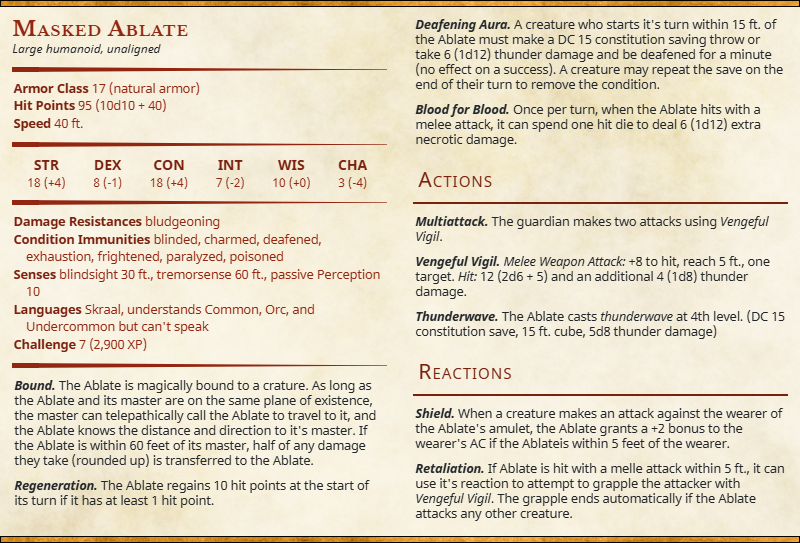
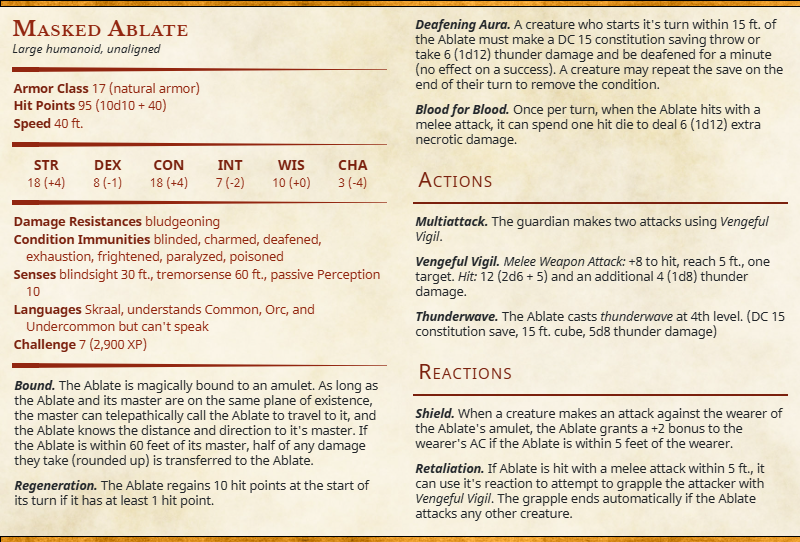
Quartz sync: Apr 30, 2025, 12:45 AM

diff --git a/content/Peoples/Aire Nomads.md b/content/Peoples/Aire Nomads.md
@@ -1,0 +1,28 @@
+###### *Parent: [[Original Diaspora]]*
+## Overview
+
+The Aire Nomads are a rugged tundra people with some isolated communities living in the southern forests and mountains. The Aire practice ancestor and spirit worship, have very limited contact with the Taiga elves, and have a deep but clouded cultural memory of domination under the [[Ancient Merlings]], causing them to fear the sea. The Aire distinguish between the light-wood and the dark-wood, and fear to venture where hags dwell.
+
+The Aire primarily herd [[Aire Aurochs]] and [[Saber-Deer]] for milk and meat. They live in igloo villages in the summer but migrate to their coastal caves during the winter. In the coastal caves they grow brine mushrooms and tubers to supplement their diet.
+
+## Central Myth
+
+The Wind spirit and Water spirit, twin sons of the chaos dragon, turned on their mother and fought her so that order could rule the world. They succeeded and buried her on the other side of the world, where she still causes earthquakes and volcanoes.
+
+However, the great spirit of the sea took a mortal wound, and where his blood spilled the Aire were born, and his body was destroyed. His will, however, endured, and it's by his power that the chaos-dragon is chained below ground. While the great spirit of the sea holds ward over his mother, his domain is unguarded and now populated by fell spirits. He is know known as the spirit undersea.
+
+The spirit of the skies was left to rule the world of the living, and he sent his children to inhabit the bodies of animals, so that his brother's blood may thrive. He is now known as the
+
+## Demigods
+
+Ansou: Spider-spirit who swindled fire from the very maw of the chaos-dragon to gift the Aire (among many other accomplishments)
+
+Posi: A small fat Lemming-spirit who guides souls from the world of the living to the kingdom under the ground. He only comes out at night and is usually joking and jovial. Ansou regularly bamboozles him.
+
+The star-maidens: 7 daughters of the sky spirit who hold the mirrors or truth so that their father never forgets what he must protect.
+
+## Heroic Figure 
+An Aire warrior-maiden once hunted the formidable silver [[Spider-elk|spider-elk]] who slayed and dismembered the chief and his prized Aurochs. Upon finding the beast she slew it with an arrow tipped with a potent fungal toxin from a cave she found on the coast. Afterwards she skinned the silver coat from the spider-elk and could thereafter fly far across the tunder using it's wind-magic.
+
+## History with Harken
+After a few more journeys and the establishment of weir's point, [[Harken Keelmender]] formed a deep friendship with the southern Aire who he encountered, even marrying one. This friendship was formed off a promise that Harken would use his smithing skills and [[Andradora|Andradoran]] magic to help the southern Aire defend against a fearsome hag. Harken knew his strength couldn't last forever and so, before he was too old, he led a expedition to find the hag. This expedition was successful and the hag was slain, but Harken lost his life in the process. Unbeknownst to all, the hag's daughter escaped to cause trouble in the future.

diff --git a/content/Characters/Ambrose Pence.md b/content/Characters/Ambrose Pence.md
@@ -44,14 +44,3 @@ As a token of good faith, Ambrose will direct the party to [[Zodiac Zop]] at the
 
 #### Statblock
 ![[ambrose pence.png]]
-```statblock
-creature: Ambrose Pence
-spells: #### Spellcasting. Ambrose is a 12th-level spellcaster. Its spellcasting ability is Wisdom (spell save DC 18, +10 to hit with spell attacks). It requires no material components to cast its spells. Ambrose has the following spells prepared
-- Cantrips (at will): _ray of frost, light, minor illusion_
-- 1st level (4 slots): _bless, detect evil and good, detect magic_
-- 2nd level (3 slots): _lesser restoration, zone of truth_
-- 3rd level (3 slots): _dispel magic, tongues_
-- 4th level (3 slots): _banishment, freedom of movement_
-- 5th level (2 slots): _flame strike, greater restoration_
-- 6th level (1 slot): _heroes' feast_
-```

diff --git a/content/Characters/Sigurd Steamsinger.md b/content/Characters/Sigurd Steamsinger.md
@@ -32,14 +32,3 @@ Sigurd operates a workshop in a little adjunct off the side of the [[Harport Che
 
 #### Statblock
 ![[sigurd steamsinger.png]]
-
-```statblock
-creature: Sigurd Steamsinger
-spells: #### Spellcasting. Sigurd is a 13th-level half-caster. His spellcasting ability is Intelligence (spell save DC 16, +8 to hit with spell attacks). Sigurd has the following spells prepared
-- Cantrips (at will): _create bonfire, mage hand, prestidigitation_
-- 1st level (4 slots): _detect magic, identify, grease, shield_
-- 2nd level (3 slots): _enlarge/reduce, heat metal_
-- 3rd level (3 slots): _elemental weapon, glyph of warding, dispel magic_
-- 4th level (1 slots): _reslilient sphere_
-hp: 97
-```

diff --git a/content/Creatures/Cahuatelle.md b/content/Creatures/Cahuatelle.md
@@ -1,12 +1,8 @@
-Description:
-Long scaled serpent with blue and yellow scales. Feathered mane. Beaked mouth. Golden crest.  
-
+[[Ophelia Berendsen|Ophelia]] dramatically pulls out the sapphire hairpin from behind her head and sings "come cahuatelle, show them the light". The wind in the area starts whipping as streaming out of the hairpin comes 5, 10, 20, feet of blue-scaled and yellow-feathered serpentine body. A brightly colored feathered mantle unfurls from the back of it's golden-crested head in shades of red and purple and gree. As it turns to face you with piercing white eyes lightning crackles from around its body as its beaky maw opens and lets forth a shrill cry, followed by a bassy gurgle, and the air begins to chill.
 
 #### Pact with Berendsens
-One of the many spirits who once walked the temperate forest on the north coast of [[Mardwythe|Mardwythan]]. Long ago, a [[Berendsen Ancestor]] ...
+One of the many spirits inhabiting the depths of the [[Silver Sea]] before [[Andradora]] came to power
 
 #### Statblock
+Based on _[summon draconic spirit](https://dnd5e.wikidot.com/spell:summon-draconic-spirit)_
 ![[cahuatelle.png]]
-```statblock
-creature: Cahuatelle
-```

diff --git a/content/Characters/Ophelia Berendsen.md b/content/Characters/Ophelia Berendsen.md
@@ -17,7 +17,7 @@ Her spellcasting ability is Charisma (spell save DC 17, +9 to hit with spell att
 - 2nd level (3 slots): _detect thoughts,  misty step_
 - 3rd level (3 slots): _counterspell, slow_
 - 4th level (3 slots): _greater invisibility, dimension door_
-- 5th level (2 slots): _summon [[Cahuatelle|Cahuatelle]], dominate person
+- 5th level (2 slots): _summon [[Cahuatelle]], dominate person_
 - 6th level (1 slot): _Otiluke's freezing sphere_
 - 7th level (1 slot): _etherealness_
 
@@ -25,10 +25,8 @@ Her spellcasting ability is Charisma (spell save DC 17, +9 to hit with spell att
 #### Inventory
 - [[Stoic's Ring]]
 - [[Heels of Hasty Retreat]]
-- [[Ring of Pain]]
+- [[Masked Ablate|Ablated Amulet]]
+- [[Cahuatelle|Sapphire Hairpin]]
 
 #### Statblock
 ![[ophelia berendsen.png]]
-```statblock
-creature: Ophelia Berendsen
-```

diff --git a/content/Creatures/Masked Ablate.md b/content/Creatures/Masked Ablate.md
@@ -1,12 +1,9 @@
-#### Ophelia's Bodyguard
+#### [[Ophelia Berendsen|Ophelia]]'s Bodyguard
 An intensely muscular 8-foot tall humanoid with deathly pale skin speckled by green, like that artisanal pistachio ice cream. It wears a calf-length skirt, or tartan?, made of black and blue layered woolen cloth with red embroidery, above this garment they are shirtless with stone-like muscles. It wields a long, two-handed dark steel [[Vengeful Vigil|sword]] with a wicked curve. About two-thirds up the broad blade there are three holes with silver rings dangling from them. However, the most striking part of it's appearance is it's face, or at least where there would be a face. Instead it seems to acknowledge you through a solid steel plate with an metallic shine of black and blue and red, like oil in a puddle. The designs swirl and convalesce over the faceplate into the vague implication of demonic face.
 ![[masked ablate (token).png]]
 
 #### History
-One of the premier exports of the [[Shadebinders of Tomme]], these beings are champion pit fighters who have been bound to a [[Beyondlings|spirit of voilance]] from planes unknown. Depending on a hstory check, [[Petunia]] may remember scattered memories of the cold acknowledgement of similar figures in the highest viewing boxes of the gladiatorial  He'd mostly recall their cold, cold stare from the highest boxes of the gladitorial areas of his youth.
+One of the premier exports of the [[Shadebinders of Tomme]], these beings are champion pit fighters who have been bound to a [[Beyondlings|spirit of violence]] from planes unknown. Depending on a history check, [[Petunia]] may remember scattered memories of the cold acknowledgement of similar figures in the highest viewing boxes of the gladiatorial  He'd mostly recall their cold, cold stare from the highest boxes of the gladitorial areas of his youth.
 
 #### Statblock
 ![[masked ablate.png]]
-```statblock
-creature: Masked Ablate
-```

diff --git a/content/Peoples/Andradorans.md b/content/Peoples/Andradorans.md
@@ -1,0 +1,1 @@
+###### *Parent: [[Original Diaspora]]*

diff --git a/content/Peoples/Gnomes.md b/content/Peoples/Gnomes.md
@@ -1,0 +1,1 @@
+Parent: [[Original Diaspora]]

diff --git a/content/Peoples/Harport Colonials.md b/content/Peoples/Harport Colonials.md
@@ -1,0 +1,1 @@
+###### *Parent: [[Andradorans]]*

diff --git a/content/Peoples/Humans.md b/content/Peoples/Humans.md
@@ -1,0 +1,1 @@
+###### *Parent: [[Original Diaspora]]*

diff --git a/content/Peoples/Orcblood.md b/content/Peoples/Orcblood.md
@@ -1,0 +1,1 @@
+###### *Parent: [[Original Diaspora]]*